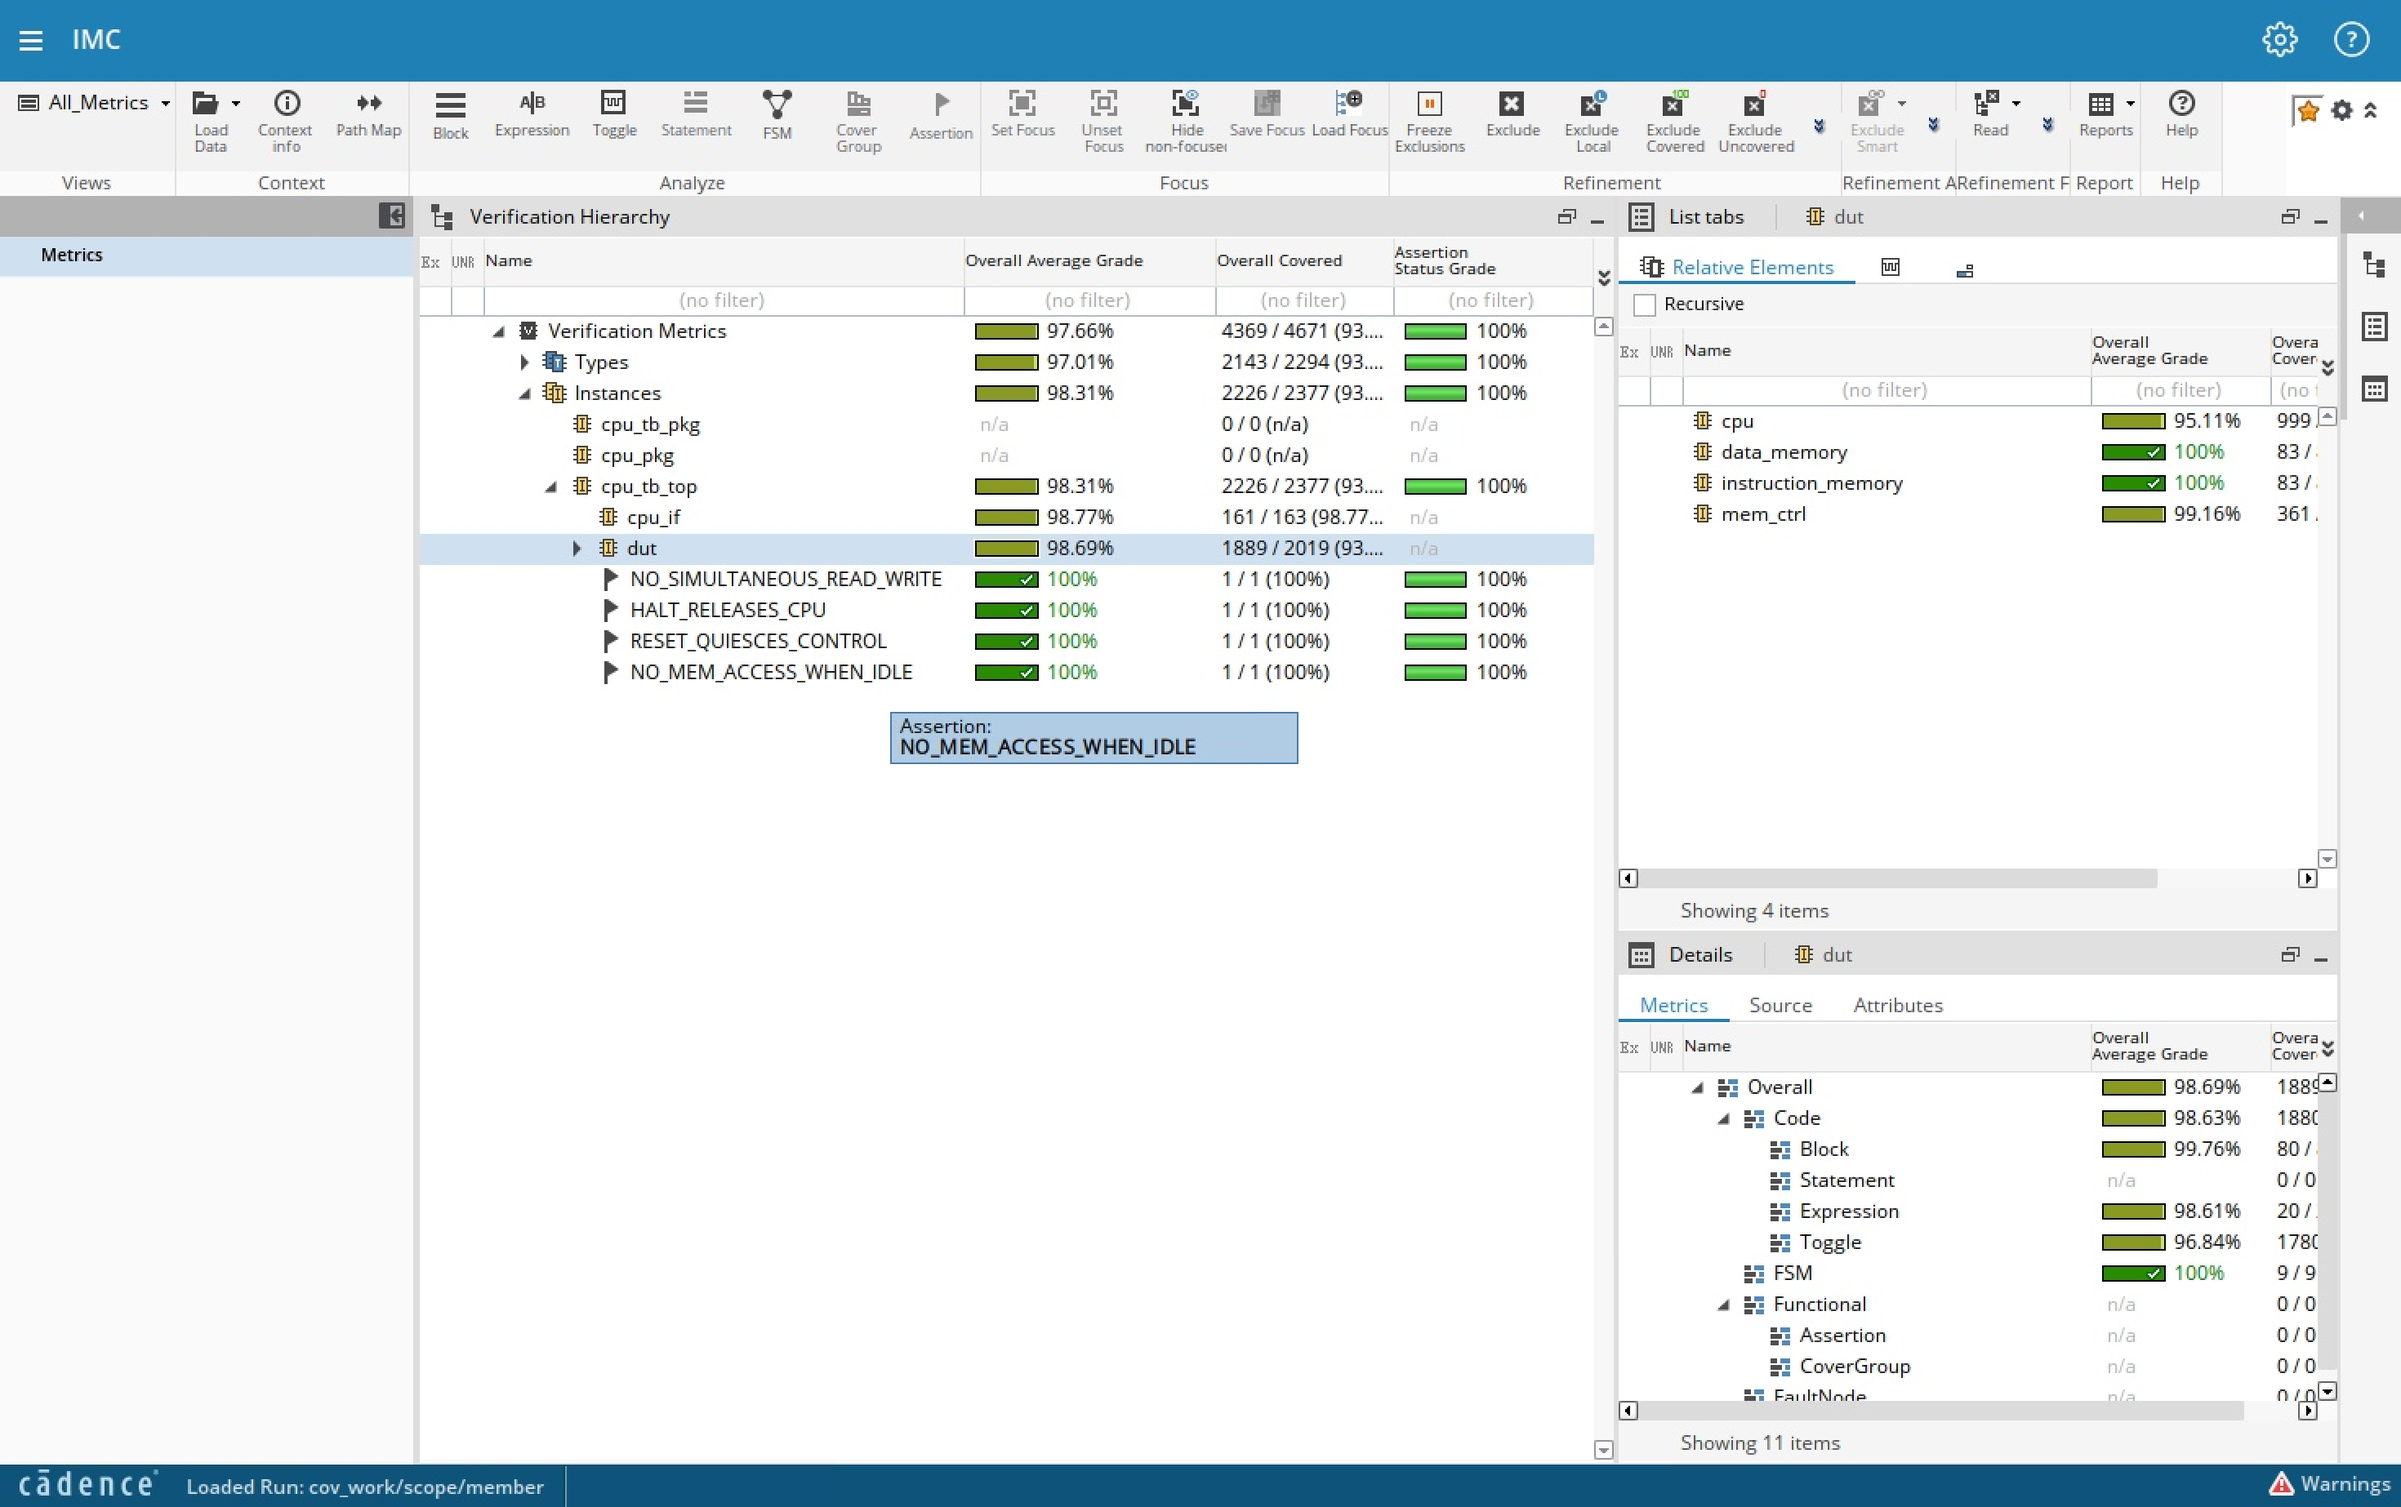
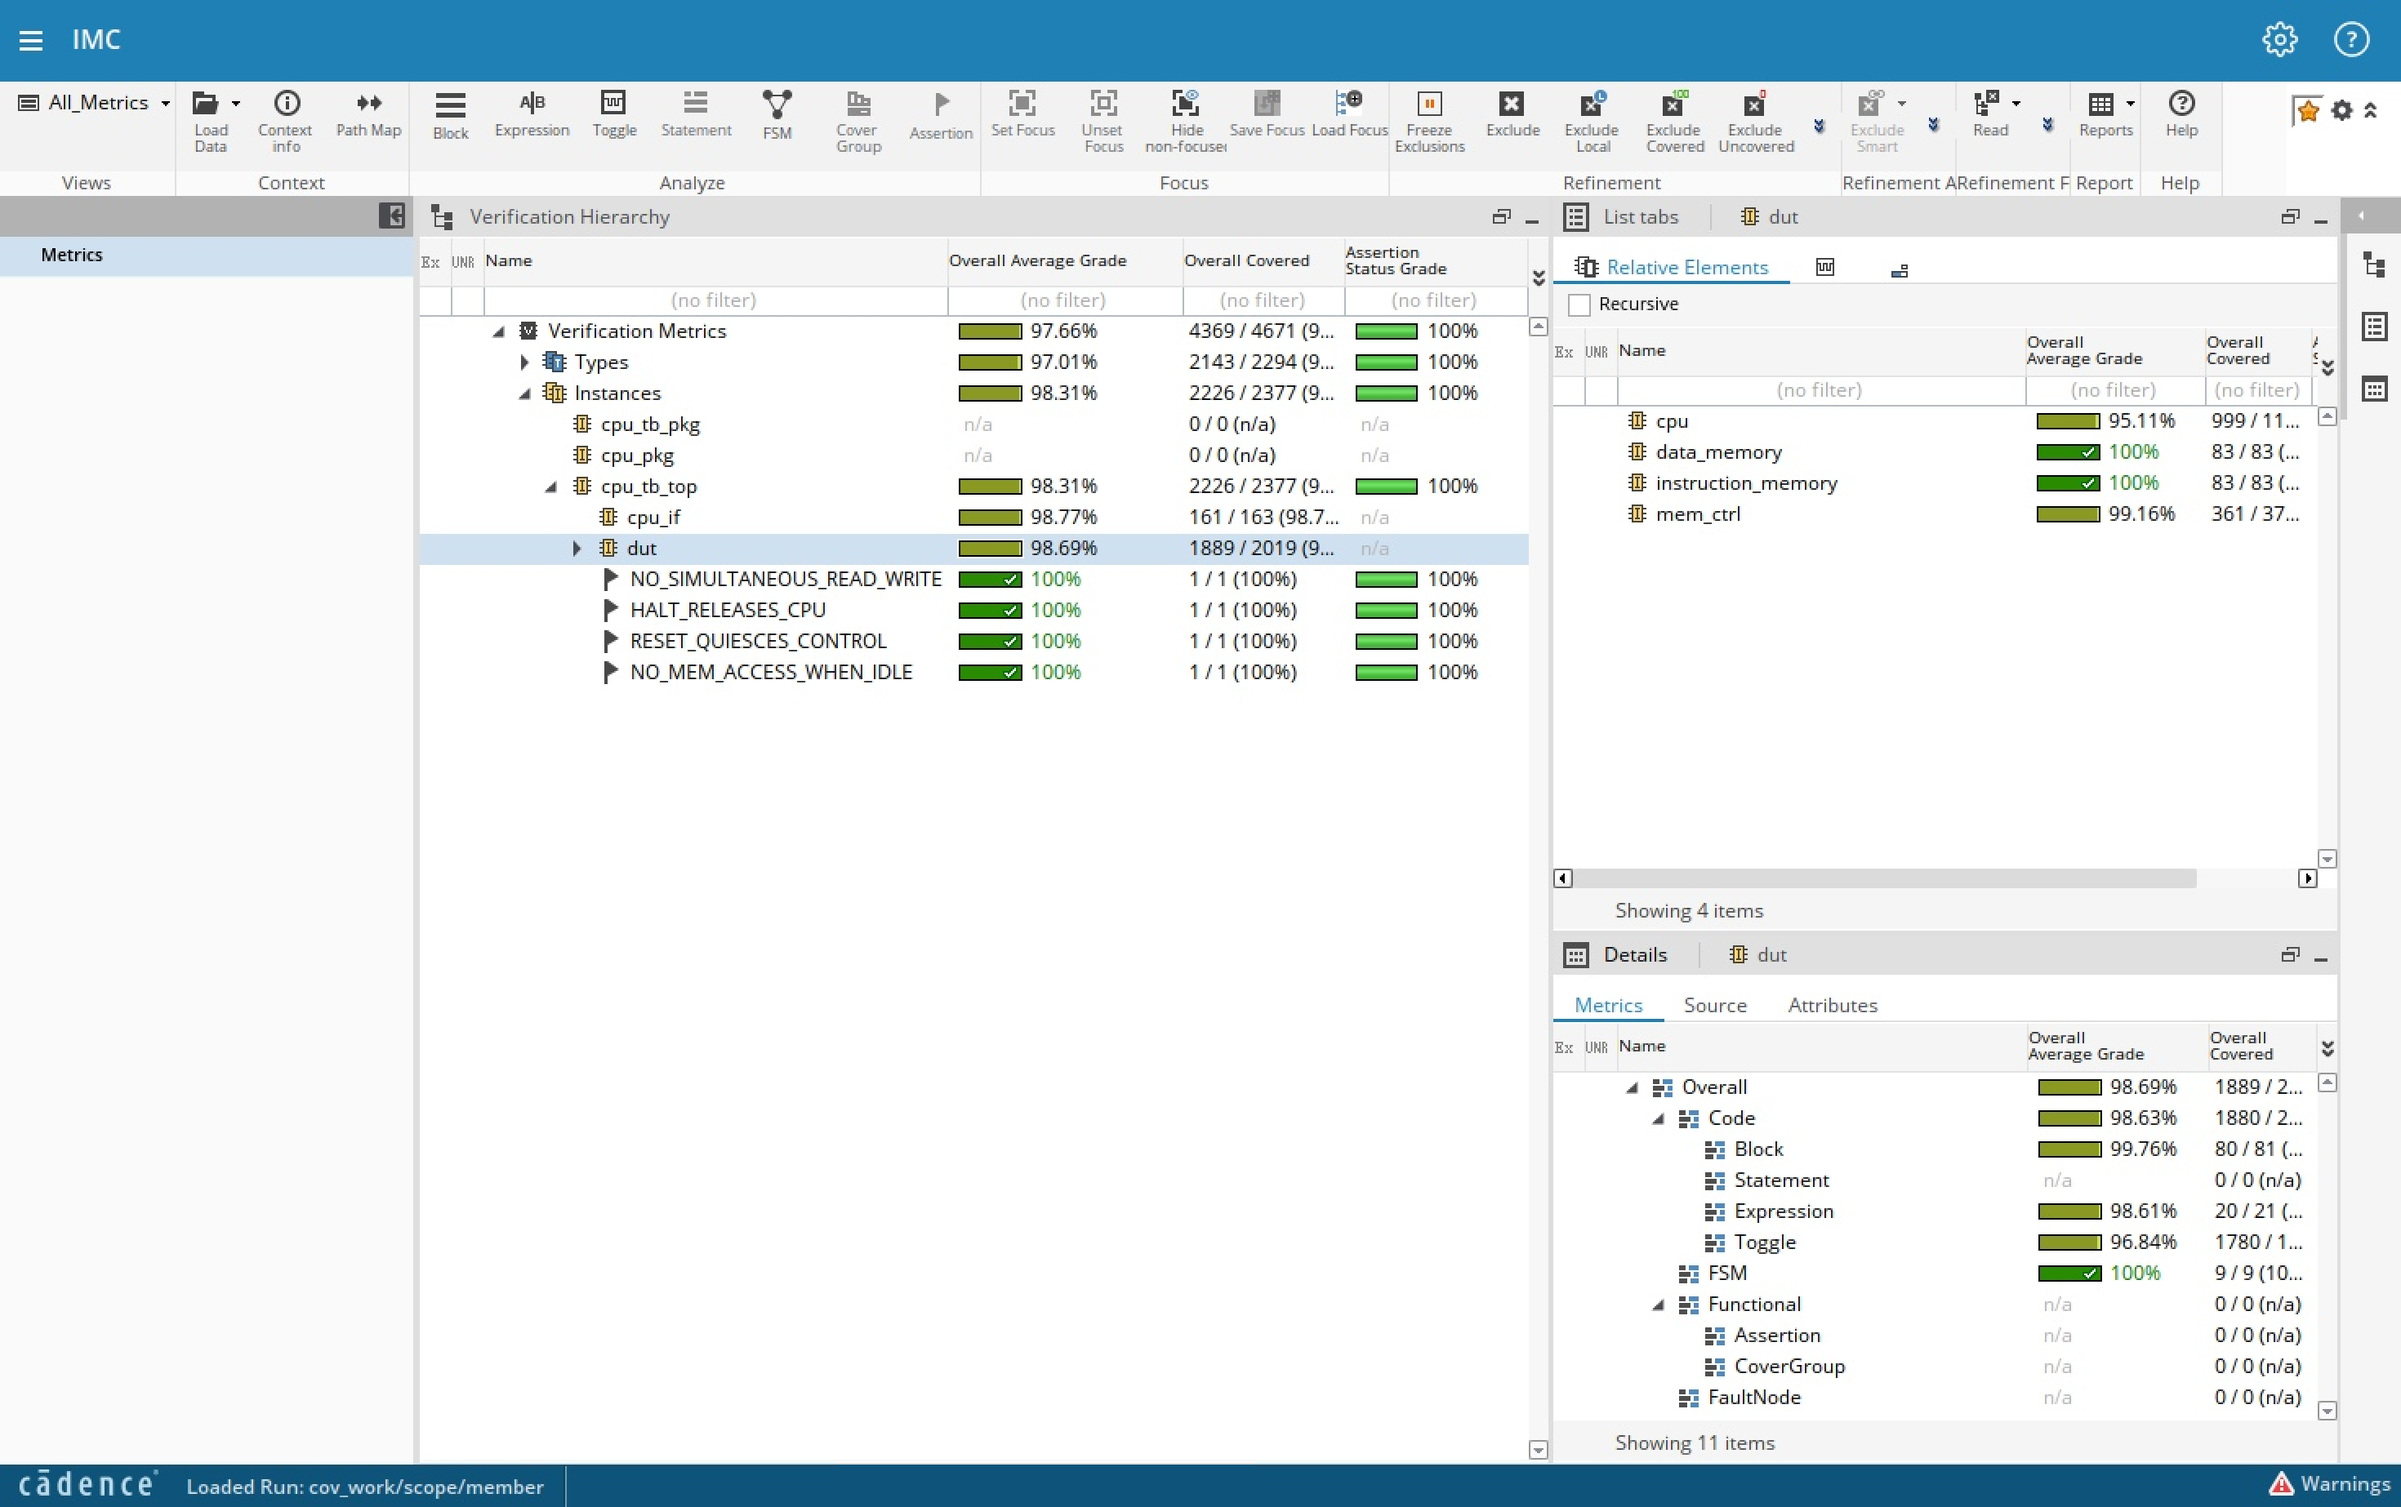
final plan and coverage screenshot for the updated testbench

diff --git a/testplan_final.md b/testplan_final.md
@@ -30,7 +30,7 @@ instructions and disappear from rendered Markdown.
 | Final | 2026-10-05 | Driver `xbar_read` took a leftover `rready` as the response to a new SRAM read (random_19: `imem[0x266]` returned the data of the write before it). Fixed by waiting one cycle for SRAM windows. |
 | Final | 2026-10-05 | The random test only wrote programs into memory and never ran the CPU, so the encrypted CPU passed. Replaced with a loop of 20 programs with reset, `init_memories()`, a timed run and readback. |
 | Final | 2026-10-05 | `c_imm_range` corner weights applied to every instruction, so random programs were mostly `addi` with almost no branches. The weights now apply only to `addi`. |
-| Final | 2026-10-05 | `c_mem_align` only limits the immediate. The version that uses register state was not implemented because I could not pull the updated scaffold (`git fetch` returned a 403 error). |
+| Final | 2026-10-06 | `c_mem_align` first limited only the immediate, because I did not have the updated scaffold (`git fetch` returned a 403 error). I then took the lead's updated `cpu_sequencer.svh` (commit 7c6179e), added `reg_snapshot` to `cpu_seq_item.svh`, and rewrote `c_mem_align` to keep `reg_snapshot[rs1] + imm` word-aligned and inside data SRAM, with `rs1` still random. `c_branch_target` now stops one word earlier, because the updated sequencer rejects a branch past the final `ebreak`. The random programs changed again, so older seeds do not regenerate them.|
 | Final | 2026-10-05 | `NO_MEM_ACCESS_WHEN_IDLE` first fired on every external data-memory access, because the memory controller raises `dsram_en` for the external port while `cpu_active` is low. It now ignores cycles where `r_en` or `w_en` is high. |
 | Final | 2026-10-05 | `NO_STORE_TO_DATA0` was withdrawn. `init_memories()` fills data word 0 with a random value, and random program 13 stored to word 0 with 0 scoreboard mismatches (`evidence_NO_STORE_TO_DATA0.log`). `HALT_RELEASES_CPU` was added in its place. |
 
@@ -1303,9 +1303,9 @@ The 25 `min_*` tests in `cpu_tb_top.sv` were added to shrink the random failures
 | `c_opcode` | Provided | Restricts `op` to the supported instruction set so generated programs contain only encodings the DUT and reference model both define. Without it, most random programs would be unsupported encodings and would exercise almost nothing. | No member change |
 | `c_reg_bias` | Provided | Weights the register selection so a small set of registers is reused often. Uniform selection across 32 registers makes read-after-write dependencies rare; biasing creates them, which is where timing bugs appear. | No member change |
 | `c_imm_range` | Partial | Supplied code constrains only `imm >= -2048`, leaving the upper end unbounded, so generated immediates can exceed what a 12-bit signed field can hold and `encode()` would silently truncate them. Completion must add `imm <= 2047`. Planned completion also biases toward the endpoints and zero so the sign-extension boundary in 1.1 is hit regularly by random stimulus rather than only by the directed test. | Removes: immediates outside -2048 to 2047, which `encode()` would cut off. Encourages: the corner values -2048, -1, 0, 1 and 2047 for `addi` only. Unreachable: nothing for `addi`. Other instructions get their immediates from their own constraints. |
-| `c_mem_align` | Open | Must force load and store effective addresses to be word-aligned and within the 1024-word data SRAM. Requires constraining the base register value together with the offset, since the effective address is their sum. Planned approach: bias the base toward x0 and bound the offset to a multiple of 4 inside the memory range. | Removes: negative and unaligned immediates for `lw` and `sw`. Encourages: every word-aligned offset from 0 to 4092. Unreachable: negative offsets, which only directed test 1.11 covers. Limit: it does not use the base register, so the final address can still fall outside data memory. The README asks for a version that uses `reg_snapshot`. I did not implement it because I could not pull the updated scaffold (`git fetch` returned a 403 error). |
+| `c_mem_align` | Open | Must force load and store effective addresses to be word-aligned and within the 1024-word data SRAM. Requires constraining the base register value together with the offset, since the effective address is their sum. Planned approach: bias the base toward x0 and bound the offset to a multiple of 4 inside the memory range. | Removes: unaligned effective addresses and addresses outside data SRAM for `lw` and `sw`. Encourages: any offset whose sum with the base register, `reg_snapshot[rs1] + imm`, is word-aligned and at most 4092, with `rs1` still random. Unreachable: only sums that are unaligned or outside data SRAM. I wrote it against the updated `cpu_sequencer.svh` from the lead's commit 7c6179e, which fills `reg_snapshot` before each instruction. The x0-base approach in the planned column was not used. |`reg_snapshot`. I did not implement it because I could not pull the updated scaffold (`git fetch` returned a 403 error). |
 | `c_imm_unused` | Provided | Forces the immediate field to a fixed value for instruction types that do not use it, so R-type programs are reproducible and the unused field cannot accidentally alias into a decoder path. | No member change |
-| `c_branch_target` | Partial | Supplied code constrains `(imm % 4 == 0) && (imm >= 4)`, which forces every generated branch forward and word-aligned. The forward restriction is what the TODO means by "avoid loops," but it also means random stimulus can never exercise a negative branch offset — that path is covered only by directed test 1.18. What is still missing is an upper bound tying the offset to the remaining program length, so a forward target cannot land past the final `ebreak`. Planned completion bounds `imm` by `(prog_len - idx) * 4`. | Removes: unaligned, zero and backward offsets, and offsets beyond the program length. Encourages: forward branches of 4 to `(prog_len - idx) * 4` bytes. Unreachable: backward branches and loops, which only directed test 1.18 covers. |
+| `c_branch_target` | Partial | Supplied code constrains `(imm % 4 == 0) && (imm >= 4)`, which forces every generated branch forward and word-aligned. The forward restriction is what the TODO means by "avoid loops," but it also means random stimulus can never exercise a negative branch offset — that path is covered only by directed test 1.18. What is still missing is an upper bound tying the offset to the remaining program length, so a forward target cannot land past the final `ebreak`. Planned completion bounds `imm` by `(prog_len - idx) * 4`. | Removes: unaligned, zero and backward offsets, and offsets beyond the program length. Encourages: forward branches of 4 to `(prog_len - idx) * 4` bytes. Unreachable: backward branches and loops, which only directed test 1.18 covers. The upper bound is `(prog_len - idx - 1) * 4`, so a branch cannot land past the final `ebreak` and the updated sequencer stops the run if one does. |
 | `c_no_branch_at_end` | Provided | Prevents a branch in the final positions, where a forward target would fall outside the program. Keeps every generated program terminating at its `ebreak`. | No member change |
 | `c_branch_taken_bias` | Open | Must make taken branches occur at a useful rate. Unconstrained random register values are almost never equal, so nearly every branch falls through and the taken path goes untested. Planned approach: force one branch operand to x0 with some probability and bias the other toward zero, so the taken path is exercised without eliminating the not-taken path. | Removes: nothing. Encourages: taken branches. `rs2` equals `rs1` with weight 1, against weight 1 for any register from 0 to 31, so about half of the branches compare a register with itself. Unreachable: nothing. Not-taken branches still happen. |
 
@@ -1600,3 +1600,4 @@ The first measurement was already above 98%, so no test was added to close cover
 | `bug3_encrypted.png`, `bug3_member.png` | bug 3 waveforms |
 | `evidence_NO_STORE_TO_DATA0.log`, `evidence_NO_MEM_ACCESS.log`, `evidence_RESET_QUIESCES.log`, `evidence_HALT_RELEASES.log` | one log per assertion, taken with a temporary violation |
 | `hunt_2_original.log`, `hunt_3_original.log`, `hunt_4_original.log` | the first random failures for the three bugs |
+| `hunt_5_after_update.log` | a random run on the final testbench: all three reproducers still fail on the encrypted CPU |
